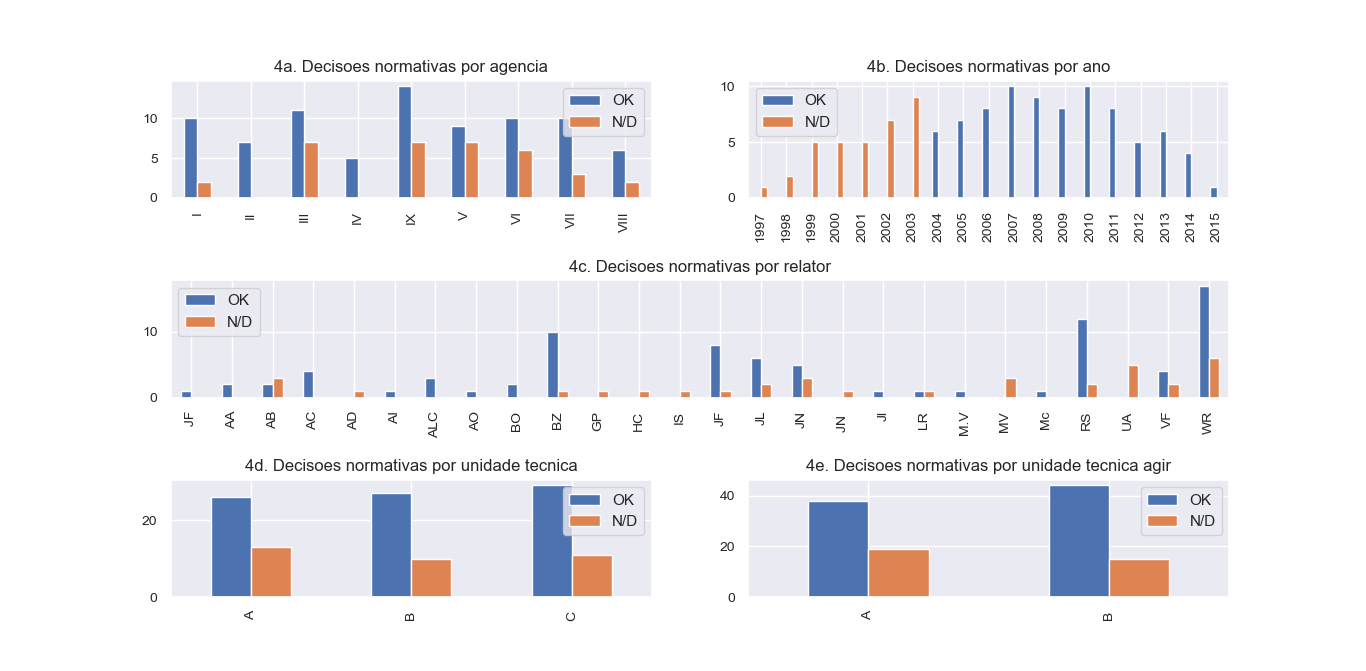
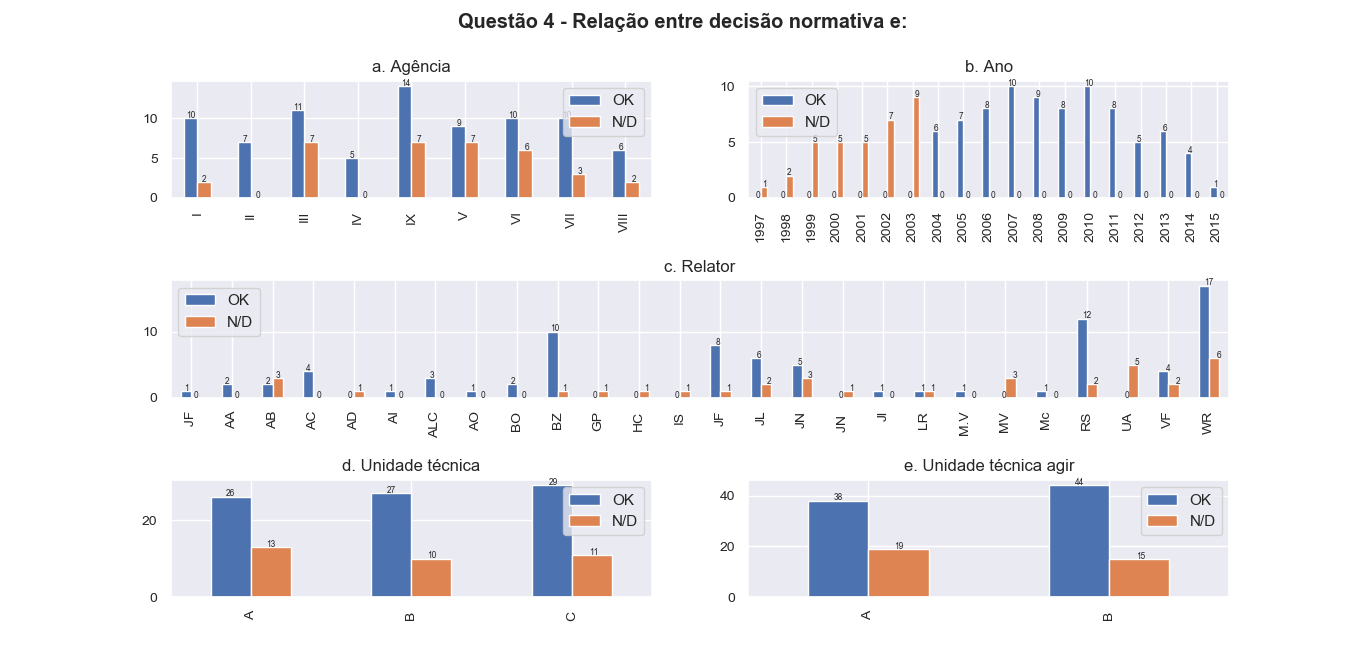
Atualizacoes 4

diff --git a/regulacaoemnumeros/Questao1.py b/regulacaoemnumeros/Questao1.py
@@ -23,7 +23,11 @@ s_1a = df['AgenciaInt'].value_counts().sort_index() # Criar Serie com total de p
 s_1a = pd.Series(s_1a.index.values, index=s_1a) # Inverter indice com valores
 s_1a = s_1a.apply(roman.toRoman) # Aplicar funcao conversora
 s_1a = pd.Series(s_1a.index.values, index=s_1a) # Reinverter para manter numerais como indice
-s_1a.plot(kind='bar', ax=axes[0,0], title='a. Agência', fontsize=10)
+ax_1a = s_1a.plot(kind='bar', ax=axes[0,0], title='a. Agência', fontsize=10)
+
+for x in ax_1a.patches:
+    ax_1a.annotate(str(x.get_height()), (x.get_x()*1.005 + x.get_width()/2,
+                                                          x.get_height()*1.005), fontsize=6, ha='center')
 
 
 # ===============================================================================================================
@@ -31,7 +35,11 @@ s_1a.plot(kind='bar', ax=axes[0,0], title='a. Agência', fontsize=10)
 # ===============================================================================================================
 
 s_1b = df['Exercicio_Apurado'].value_counts().sort_index() # Criar Serie com total de processos
-s_1b.plot(kind='bar', ax=axes[0,1], title='b. Ano', fontsize=10)
+ax_1b = s_1b.plot(kind='bar', ax=axes[0,1], title='b. Ano', fontsize=10)
+
+for x in ax_1b.patches:
+    ax_1b.annotate(str(x.get_height()), (x.get_x()*1.005 + x.get_width()/2,
+                                                          x.get_height()*1.005), fontsize=6, ha='center')
 
 
 # ===============================================================================================================
@@ -59,7 +67,11 @@ d.plot(ax=large_left_ax, title='c. Agência / Ano', fontsize=10)
 # ===============================================================================================================
 
 s_1d = df['Relator'].value_counts().sort_index() # Criar Serie com total de processos
-s_1d.plot(kind='bar', ax=axes[0,2], title='d. Relator', fontsize=10)
+ax_1d = s_1d.plot(kind='bar', ax=axes[0,2], title='d. Relator', fontsize=10)
+
+for x in ax_1d.patches:
+    ax_1d.annotate(str(x.get_height()), (x.get_x()*1.005 + x.get_width()/2,
+                                                          x.get_height()*1.005), fontsize=6, ha='center')
 
 
 # ===============================================================================================================
@@ -70,7 +82,11 @@ s_1e = df['Quantidade_Relatores'].value_counts().sort_index() # Criar Serie com 
 s_1e = pd.Series(s_1e.index.values, index=s_1e) # Inverter indice com valores
 s_1e = s_1e.apply(int) # Aplicar funcao conversora
 s_1e = pd.Series(s_1e.index.values, index=s_1e) # Reinverter para manter numerais como indice
-s_1e.plot(kind='bar', ax=axes[1,2], title='e. Quantidade de relatores', fontsize=10)
+ax_1e = s_1e.plot(kind='bar', ax=axes[1,2], title='e. Quantidade de relatores', fontsize=10)
+
+for x in ax_1e.patches:
+    ax_1e.annotate(str(x.get_height()), (x.get_x()*1.005 + x.get_width()/2,
+                                                          x.get_height()*1.005), fontsize=6, ha='center')
 
 
 # ===============================================================================================================
@@ -78,7 +94,11 @@ s_1e.plot(kind='bar', ax=axes[1,2], title='e. Quantidade de relatores', fontsize
 # ===============================================================================================================
 
 s_1d = df['Unidade_Tecnica_Por_Agir'].value_counts().sort_index() # Criar Serie com total de processos
-s_1d.plot(kind='bar', ax=axes[2,2], title='f. Unidade técnica', fontsize=10)
+ax_1d = s_1d.plot(kind='bar', ax=axes[2,2], title='f. Unidade técnica', fontsize=10)
+
+for x in ax_1d.patches:
+    ax_1d.annotate(str(x.get_height()), (x.get_x()*1.005 + x.get_width()/2,
+                                                          x.get_height()*1.005), fontsize=6, ha='center')
 
 yint = []
 locs, labels = plt.yticks()

diff --git a/regulacaoemnumeros/Questao5.py b/regulacaoemnumeros/Questao5.py
@@ -24,7 +24,11 @@ result_5a = pd.Series(result_5a.index.values, index=result_5a) # Inverter indice
 result_5a = result_5a.apply(roman.toRoman) # Aplicar funcao conversora
 result_5a = pd.Series(result_5a.index.values, index=result_5a) # Reinverter para manter numerais como indice
 ax_5a = plt.subplot2grid(grid, (0,0), colspan=2, rowspan=1)
-result_5a.plot.bar(ax=ax_5a, title='a. Agência', fontsize=10)
+ax_5a = result_5a.plot.bar(ax=ax_5a, title='a. Agência', fontsize=10)
+
+for x in ax_5a.patches:
+    ax_5a.annotate(str(int(x.get_height())), (x.get_x()*1.005 + x.get_width()/2,
+                                                          x.get_height()*1.005), fontsize=6, ha='center')
 
 
 # ===============================================================================================================
@@ -37,7 +41,11 @@ result_5b = result_5b.apply(int) # Aplicar funcao conversora
 result_5b = pd.Series(result_5b.index.values, index=result_5b) # Reinverter para manter numerais como indice
 title_5b = 'b. Ano (Total: {})'.format(result_5b.sum())
 ax_5b = plt.subplot2grid(grid, (0,2), colspan=2, rowspan=1)
-result_5b.plot.bar(ax=ax_5b, title=title_5b, fontsize=10)
+ax_5b = result_5b.plot.bar(ax=ax_5b, title=title_5b, fontsize=10)
+
+for x in ax_5b.patches:
+    ax_5b.annotate(str(int(x.get_height())), (x.get_x()*1.005 + x.get_width()/2,
+                                                          x.get_height()*1.005), fontsize=6, ha='center')
 
 
 # ===============================================================================================================
@@ -47,7 +55,11 @@ result_5b.plot.bar(ax=ax_5b, title=title_5b, fontsize=10)
 result_5c = df.groupby('Relator')['deliberacoes_quantidade'].sum()
 result_5c.index.name = ''
 ax_5c = plt.subplot2grid(grid, (1,0), colspan=2, rowspan=1)
-result_5c.plot.bar(ax=ax_5c, title='c. Relator', fontsize=10)
+ax_5c = result_5c.plot.bar(ax=ax_5c, title='c. Relator', fontsize=10)
+
+for x in ax_5c.patches:
+    ax_5c.annotate(str(int(x.get_height())), (x.get_x()*1.005 + x.get_width()/2,
+                                                          x.get_height()*1.005), fontsize=6, ha='center')
 
 
 # ===============================================================================================================
@@ -57,7 +69,11 @@ result_5c.plot.bar(ax=ax_5c, title='c. Relator', fontsize=10)
 result_5d = df.groupby('Unidade_Tecnica_Responsavel')['deliberacoes_quantidade'].sum()
 result_5d.index.name = ''
 ax_5d = plt.subplot2grid(grid, (1,2), colspan=1, rowspan=1)
-result_5d.plot.bar(ax=ax_5d, title='d. Unidade técnica', fontsize=10)
+ax_5d = result_5d.plot.bar(ax=ax_5d, title='d. Unidade técnica', fontsize=10)
+
+for x in ax_5d.patches:
+    ax_5d.annotate(str(int(x.get_height())), (x.get_x()*1.005 + x.get_width()/2,
+                                                          x.get_height()*1.005), fontsize=6, ha='center')
 
 
 # ===============================================================================================================
@@ -67,7 +83,11 @@ result_5d.plot.bar(ax=ax_5d, title='d. Unidade técnica', fontsize=10)
 result_5e = df.groupby('Unidade_Tecnica_Por_Agir')['deliberacoes_quantidade'].sum()
 result_5e.index.name = ''
 ax_5e = plt.subplot2grid(grid, (1,3), colspan=1, rowspan=1)
-result_5e.plot.bar(ax=ax_5e, title='e. Unidade técnica agir', fontsize=10)
+ax_5e = result_5e.plot.bar(ax=ax_5e, title='e. Unidade técnica agir', fontsize=10)
+
+for x in ax_5e.patches:
+    ax_5e.annotate(str(int(x.get_height())), (x.get_x()*1.005 + x.get_width()/2,
+                                                          x.get_height()*1.005), fontsize=6, ha='center')
 
 
 plt.show()

diff --git a/regulacaoemnumeros/Questao3.py b/regulacaoemnumeros/Questao3.py
@@ -36,6 +36,8 @@ large_left_ax = plt.subplot2grid((2,3), (0,0), colspan=2, rowspan=1)
 result_3a.plot.bar(legend=False, ax=large_left_ax, title='a. Agência / Processo', fontsize=10)
 
 
+
+
 # ===============================================================================================================
 #                                                  QUESTAO 3b
 # ===============================================================================================================
@@ -46,7 +48,11 @@ result_3b = pd.Series(result_3b.index.values, index=result_3b) # Inverter indice
 result_3b = result_3b.apply(int) # Aplicar funcao conversora
 result_3b = pd.Series(result_3b.index.values, index=result_3b) # Reinverter para manter numerais como indice
 title = 'b. Ano (Total: {})'.format(result_3b.sum())
-result_3b.plot.bar(legend=False, ax=axes[0,2], title=title, fontsize=10)
+ax_3b = result_3b.plot.bar(legend=False, ax=axes[0,2], title=title, fontsize=10)
+
+for x in ax_3b.patches:
+    ax_3b.annotate(str(x.get_height()), (x.get_x()*1.005 + x.get_width()/2,
+                                                          x.get_height()*1.005), fontsize=6, ha='center')
 
 
 # ===============================================================================================================
@@ -55,7 +61,11 @@ result_3b.plot.bar(legend=False, ax=axes[0,2], title=title, fontsize=10)
 
 result_3c = df.groupby('Relator')['quant_responsaveis'].sum()
 result_3c.index.name = ''
-result_3c.plot.bar(legend=False, ax=axes[1,0], title='c. Relator', fontsize=10)
+ax_3c = result_3c.plot.bar(legend=False, ax=axes[1,0], title='c. Relator', fontsize=10)
+
+for x in ax_3c.patches:
+    ax_3c.annotate(str(x.get_height()), (x.get_x()*1.005 + x.get_width()/2,
+                                                          x.get_height()*1.005), fontsize=6, ha='center')
 
 
 # ===============================================================================================================
@@ -64,7 +74,11 @@ result_3c.plot.bar(legend=False, ax=axes[1,0], title='c. Relator', fontsize=10)
 
 result_3d = df.groupby('Unidade_Tecnica_Responsavel')['quant_responsaveis'].sum()
 result_3d.index.name = ''
-result_3d.plot.bar(legend=False, ax=axes[1,1], title='d. Unidade técnica', fontsize=10)
+ax_3d = result_3d.plot.bar(legend=False, ax=axes[1,1], title='d. Unidade técnica', fontsize=10)
+
+for x in ax_3d.patches:
+    ax_3d.annotate(str(x.get_height()), (x.get_x()*1.005 + x.get_width()/2,
+                                                          x.get_height()*1.005), fontsize=6, ha='center')
 
 
 # ===============================================================================================================
@@ -73,7 +87,11 @@ result_3d.plot.bar(legend=False, ax=axes[1,1], title='d. Unidade técnica', font
 
 result_3e = df.groupby('Unidade_Tecnica_Por_Agir')['quant_responsaveis'].sum()
 result_3e.index.name = ''
-result_3e.plot.bar(legend=False, ax=axes[1,2], title='e. Unidade técnica agir', fontsize=10)
+ax_3e = result_3e.plot.bar(legend=False, ax=axes[1,2], title='e. Unidade técnica agir', fontsize=10)
+
+for x in ax_3e.patches:
+    ax_3e.annotate(str(x.get_height()), (x.get_x()*1.005 + x.get_width()/2,
+                                                          x.get_height()*1.005), fontsize=6, ha='center')
 
 
 plt.show()

diff --git a/regulacaoemnumeros/Questao4.py b/regulacaoemnumeros/Questao4.py
@@ -35,7 +35,11 @@ for x in agencias:
                 d_4a[main_index]['OK'] += 1
 
 result_3a = pd.DataFrame.from_dict(d_4a, orient='index')
-result_3a.plot.bar(ax=axes[0,0], title='a. Agência', fontsize=10)
+ax_4a = result_3a.plot.bar(ax=axes[0,0], title='a. Agência', fontsize=10)
+
+for x in ax_4a.patches:
+    ax_4a.annotate(str(x.get_height()), (x.get_x()*1.005 + x.get_width()/2,
+                                                          x.get_height()*1.005), fontsize=6, ha='center')
 
 
 # ===============================================================================================================
@@ -57,7 +61,11 @@ for x in anos:
                 d_4b[x]['OK'] += 1
 
 result_4b = pd.DataFrame.from_dict(d_4b, orient='index')
-result_4b.plot.bar(ax=axes[0, 1], title='b. Ano', fontsize=10)
+ax_4b = result_4b.plot.bar(ax=axes[0, 1], title='b. Ano', fontsize=10)
+
+for x in ax_4b.patches:
+    ax_4b.annotate(str(x.get_height()), (x.get_x()*1.005 + x.get_width()/2,
+                                                          x.get_height()*1.005), fontsize=6, ha='center')
 
 
 # ===============================================================================================================
@@ -80,8 +88,12 @@ for x in relatores:
 
 result_4c = pd.DataFrame.from_dict(d_4c, orient='index')
 large_left_ax = plt.subplot2grid((3,2), (1,0), colspan=2, rowspan=1)
-result_4c.plot.bar(ax=large_left_ax, title='c. Relator', fontsize=10)
+ax_4c = result_4c.plot.bar(ax=large_left_ax, title='c. Relator', fontsize=10)
 
+
+for x in ax_4c.patches:
+    ax_4c.annotate(str(x.get_height()), (x.get_x()*1.005 + x.get_width()/2,
+                                                          x.get_height()*1.005), fontsize=6, ha='center')
 
 
 # ===============================================================================================================
@@ -103,7 +115,11 @@ for x in unidades:
                 d_4d[x]['OK'] += 1
 
 result_4d = pd.DataFrame.from_dict(d_4d, orient='index')
-result_4d.plot.bar(ax=axes[2,0], title='d. Unidade técnica', fontsize=10)
+ax_4d = result_4d.plot.bar(ax=axes[2,0], title='d. Unidade técnica', fontsize=10)
+
+for x in ax_4d.patches:
+    ax_4d.annotate(str(x.get_height()), (x.get_x()*1.005 + x.get_width()/2,
+                                                          x.get_height()*1.005), fontsize=6, ha='center')
 
 
 # ===============================================================================================================
@@ -125,7 +141,11 @@ for x in agir:
                 d_4e[x]['OK'] += 1
 
 result_4e = pd.DataFrame.from_dict(d_4e, orient='index')
-result_4e.plot.bar(ax=axes[2,1], title='e. Unidade técnica agir', fontsize=10)
+ax_4e = result_4e.plot.bar(ax=axes[2,1], title='e. Unidade técnica agir', fontsize=10)
+
+for x in ax_4e.patches:
+    ax_4e.annotate(str(x.get_height()), (x.get_x()*1.005 + x.get_width()/2,
+                                                          x.get_height()*1.005), fontsize=6, ha='center')
 
 
 plt.show()

diff --git a/regulacaoemnumeros/Questao2.py b/regulacaoemnumeros/Questao2.py
@@ -21,5 +21,9 @@ s = pd.Series(s.index.values, index=s) # Reinverter para manter numerais como in
 s = s.append(pd.Series([s.mean()], index=['Geral']))
 
 sns.set()
-s.plot(kind='bar', title='Questão 2 - Média de duração por agência e total', fontsize=10)
+ax = s.plot(kind='bar', title='Questão 2 - Média de duração por agência e total', fontsize=10)
+
+for x in ax.patches:
+    ax.annotate('~ '+str(int(round(x.get_height()))), (x.get_x()*1.005 + x.get_width()/2, x.get_height()*1.005), fontsize=6, ha='center')
+
 plt.show()
